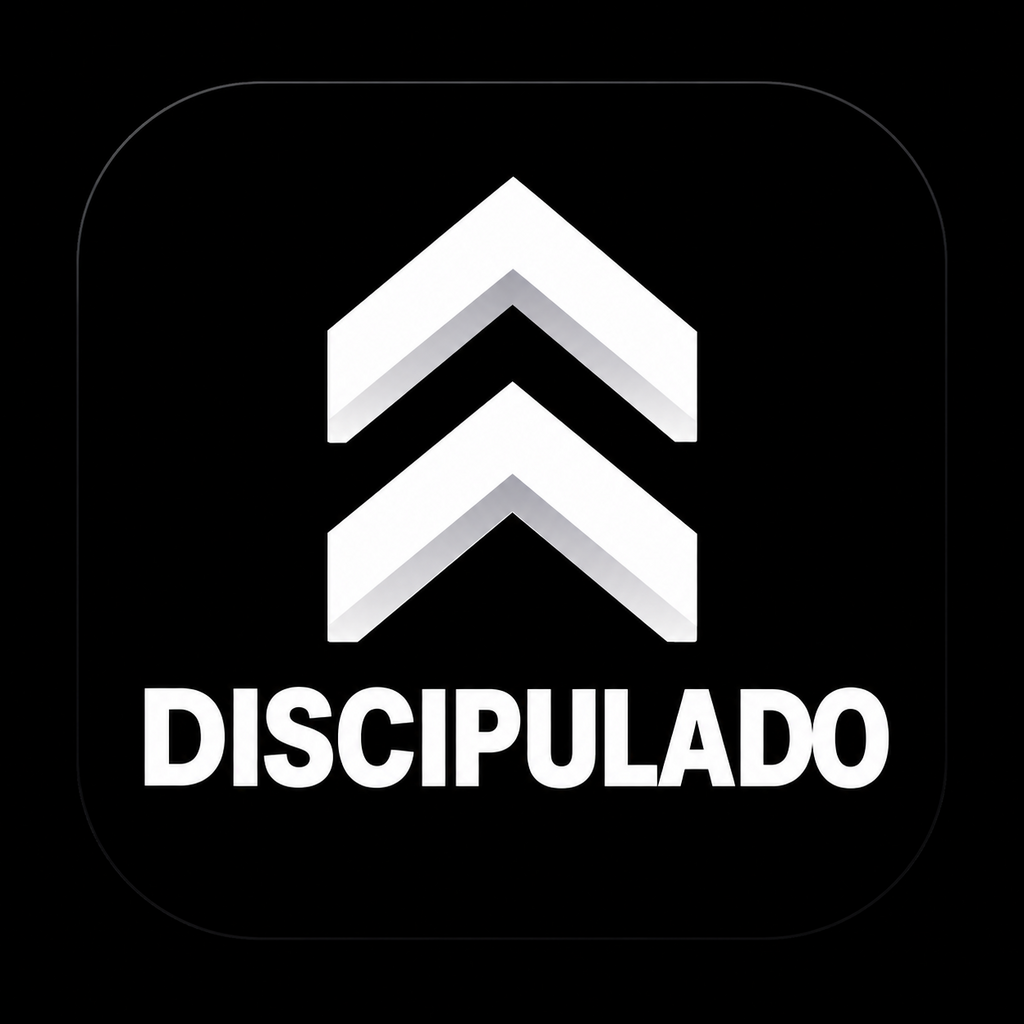
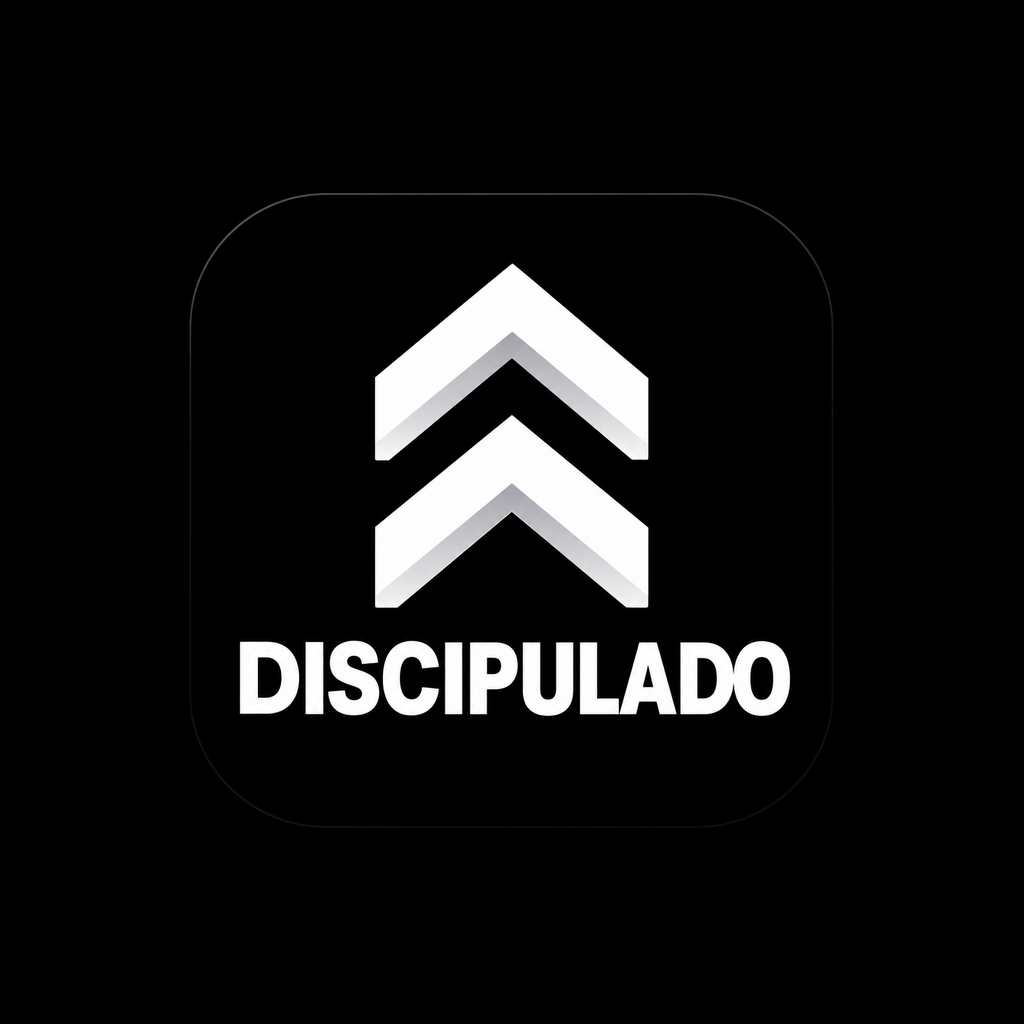
Ajusta ícone para mostrar o nome completo e corrige tipos do tema
Claude-Session: https://claude.ai/code/session_01WLLPVuhDraxEJZeKMKieUV

Changed region(s): [[0.125, 0.1562, 0.875, 0.7812], [0.4688, 0.4688, 0.5312, 0.5], [0.1562, 0.0938, 0.1875, 0.125]]

diff --git a/mobile/src/lib/tema.ts b/mobile/src/lib/tema.ts
@@ -1,6 +1,7 @@
 // Paleta da identidade JNI União (mesma do site)
 export const C = {
   navy: '#0b1020',
+  navy2: '#141c36',
   cy: '#2ec4f2',
   bl: '#2456f0',
   or: '#f26a1b',
@@ -9,5 +10,6 @@ export const C = {
   ok: '#1c9b5a',
   line: '#d9deea',
   muted: '#5b6378',
+  ink: '#141a2e',
   white: '#ffffff',
 };
